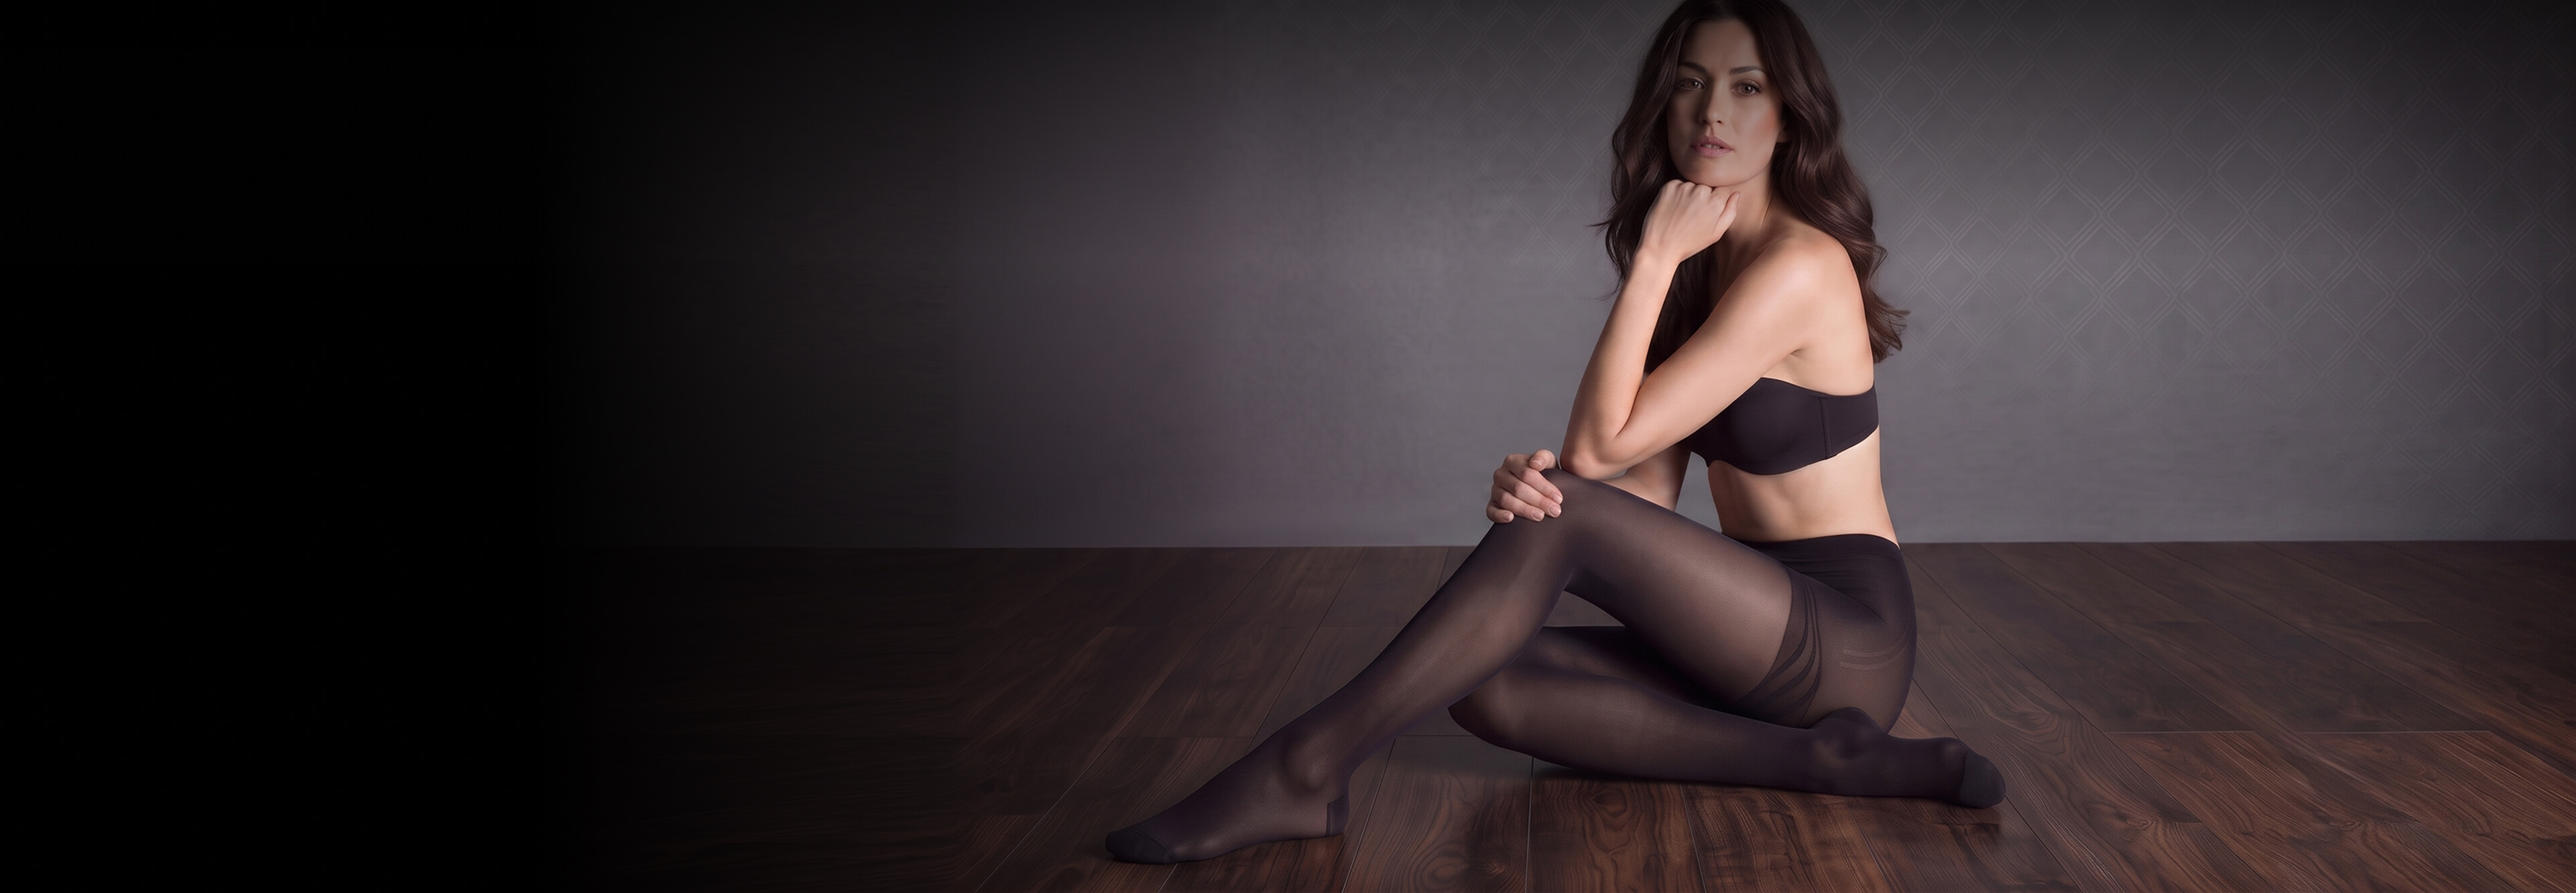
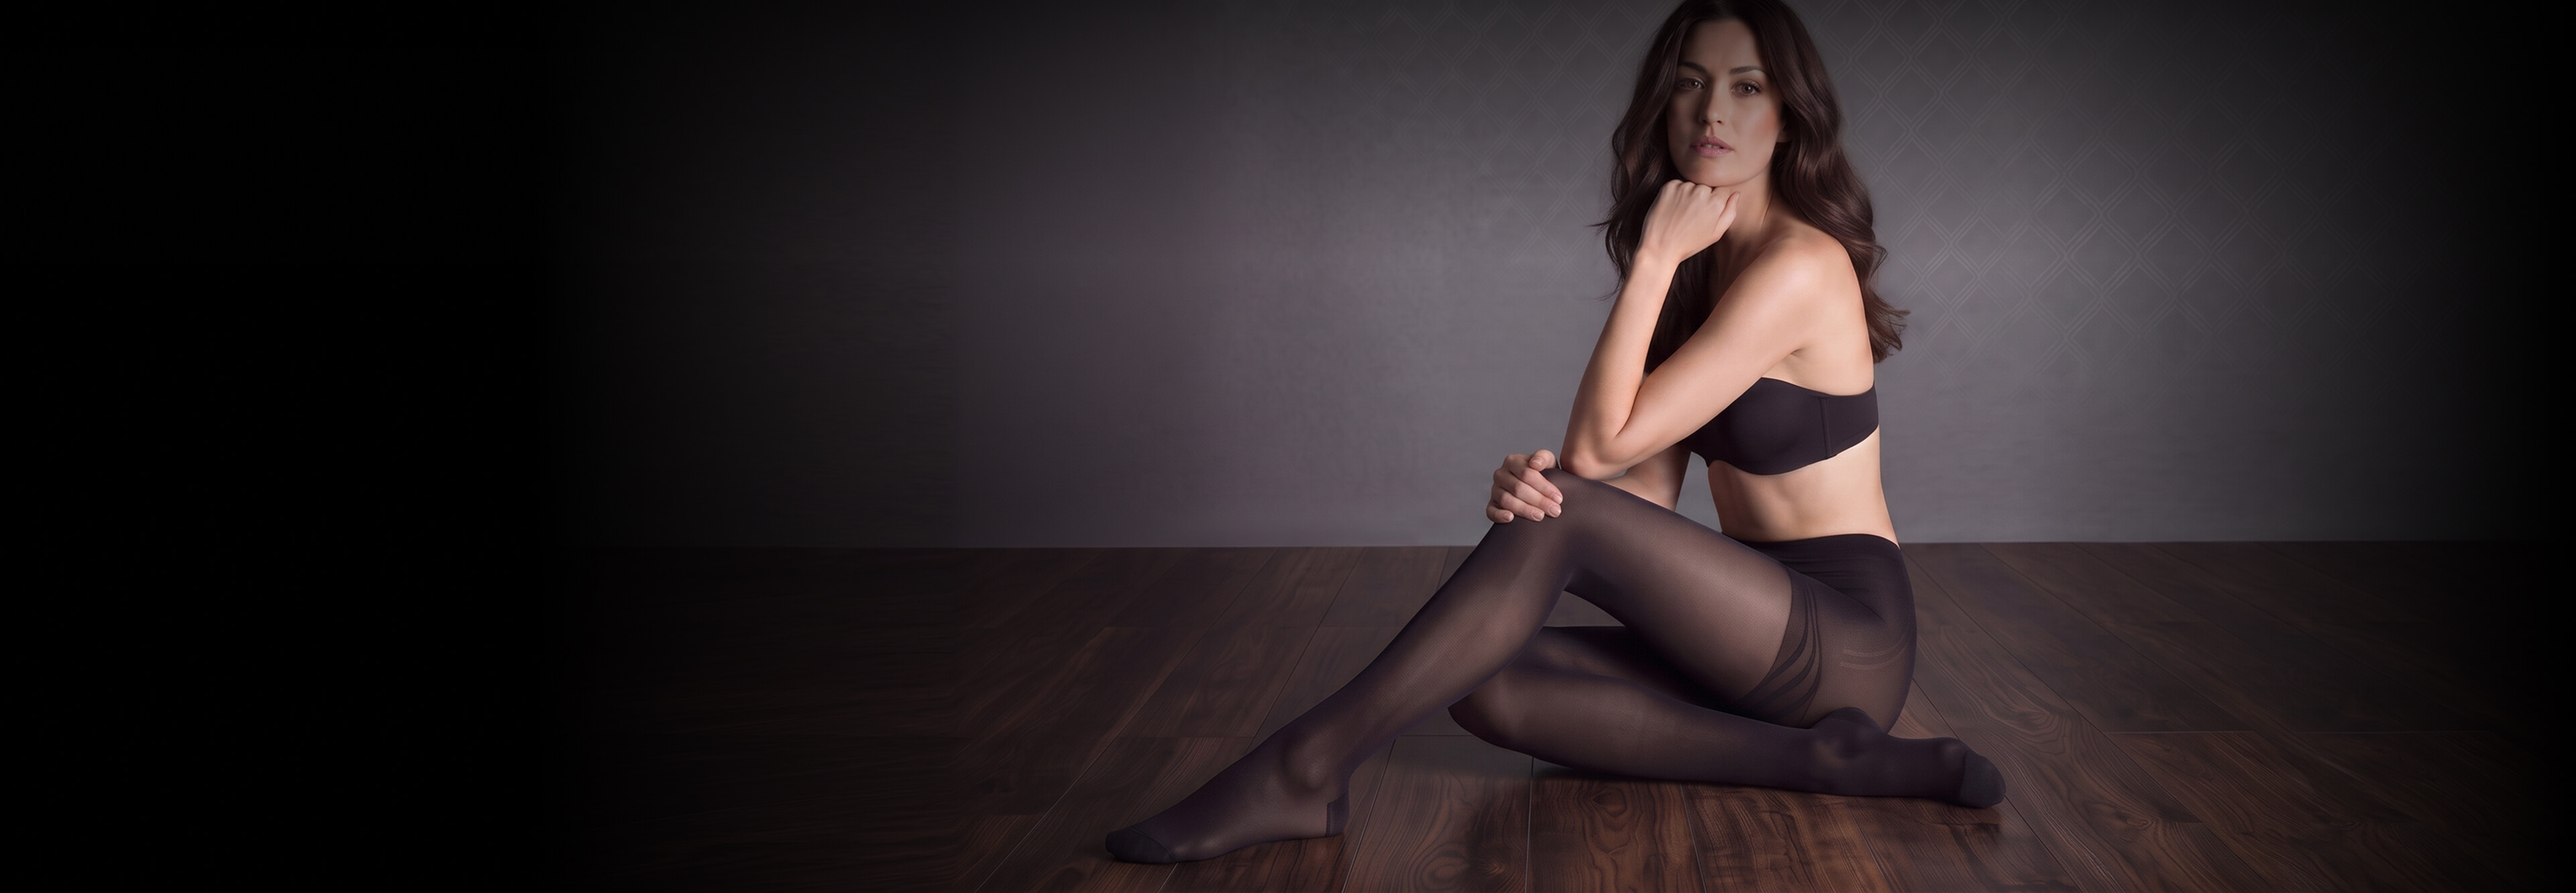
updates
Главная страница
- сделать отдельный вариант первого блока для очень высоких разрешений

Где купить?
- подскажите, пожалуйста, мы можем элементы управления слева поставить, а не справа? - https://c2n.me/4ofQwXS
- и можно ли сделать поле для ввода адреса такого же размера как кнопка гелокации (или кнопку чуть больше)?

Changed region(s): [[0.8125, 0.0308, 1.0, 1.0]]

diff --git a/css/styles.css b/css/styles.css
@@ -480,8 +480,8 @@ header.fixed .header-logo {min-width:92px; max-width:92px}
 }
 
 .main-welcome {position:relative; margin:-100px 0 0 0; height:666px}
-.main-welcome-bg {position:absolute; left:0; top:0; right:0; bottom:0; overflow:hidden}
-.main-welcome-bg img {position:relative; display:block; width:100%; height:100%; max-width:none; -o-object-fit:cover; object-fit:cover}
+.main-welcome-bg {position:absolute; left:0; top:0; right:0; bottom:0; overflow:hidden; display:flex; justify-content:center; background:#000000}
+.main-welcome-bg img {position:relative; display:block; width:auto; height:100%; max-width:none}
 .main-welcome-bg-mobile {display:none}
 .main-welcome-container {position:absolute; left:0; top:0; right:0; bottom:0; display:flex; align-items:center}
 .main-welcome-content {max-width:500px; display:flex; flex-direction:column; gap:10px 0}
@@ -940,6 +940,7 @@ header.fixed .header-logo {min-width:92px; max-width:92px}
 .buy-map-popup-close svg {display:block; width:21px; height:21px; fill:#FFFFFF}
 .buy-partners-map .ymaps3--marker:hover {z-index:1 !important}
 .buy-partners-map .ymaps3--marker:has(.buy-map-marker.active) {z-index:2 !important}
+.buy-partners-map .ymaps3--geolocation-control {width:32px; height:32px}
 
 @media (max-width:1199px) {
     .buy-partners-map {height:490px}

diff --git a/smartleg-04-buy.html b/smartleg-04-buy.html
@@ -189,14 +189,14 @@
                                 };
 
                                 map.addChild(
-                                    new YMapControls({position: 'top left'})
+                                    new YMapControls({position: 'top right'})
                                         .addChild(new YMapGeolocationControl({easing: 'ease-in-out', duration: 2000, zoom: 15}))
                                         .addChild(new YMapSearchControl({
                                             searchResult: searchResultHandler
                                         }))
                                 );
                                 map.addChild(
-                                    new YMapControls({position: 'left'})
+                                    new YMapControls({position: 'right'})
                                         .addChild(new YMapZoomControl())
                                 );
 
